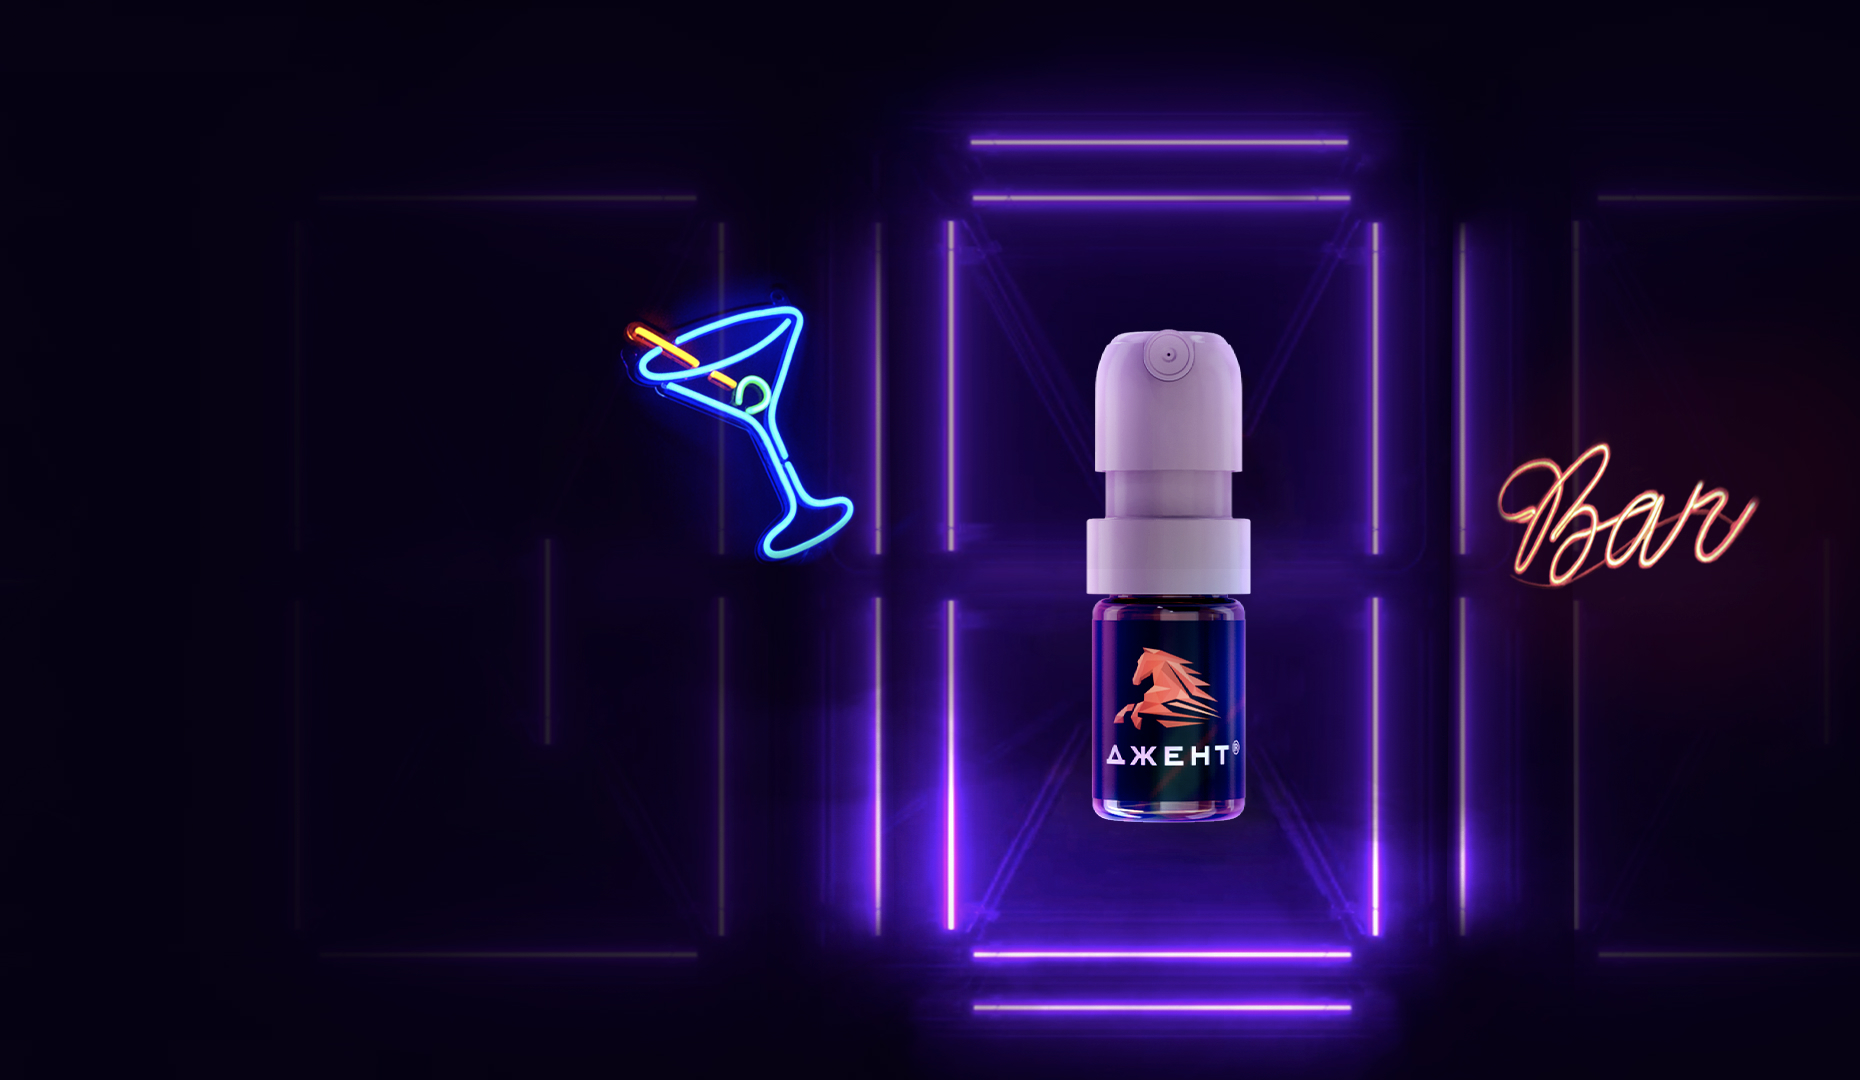
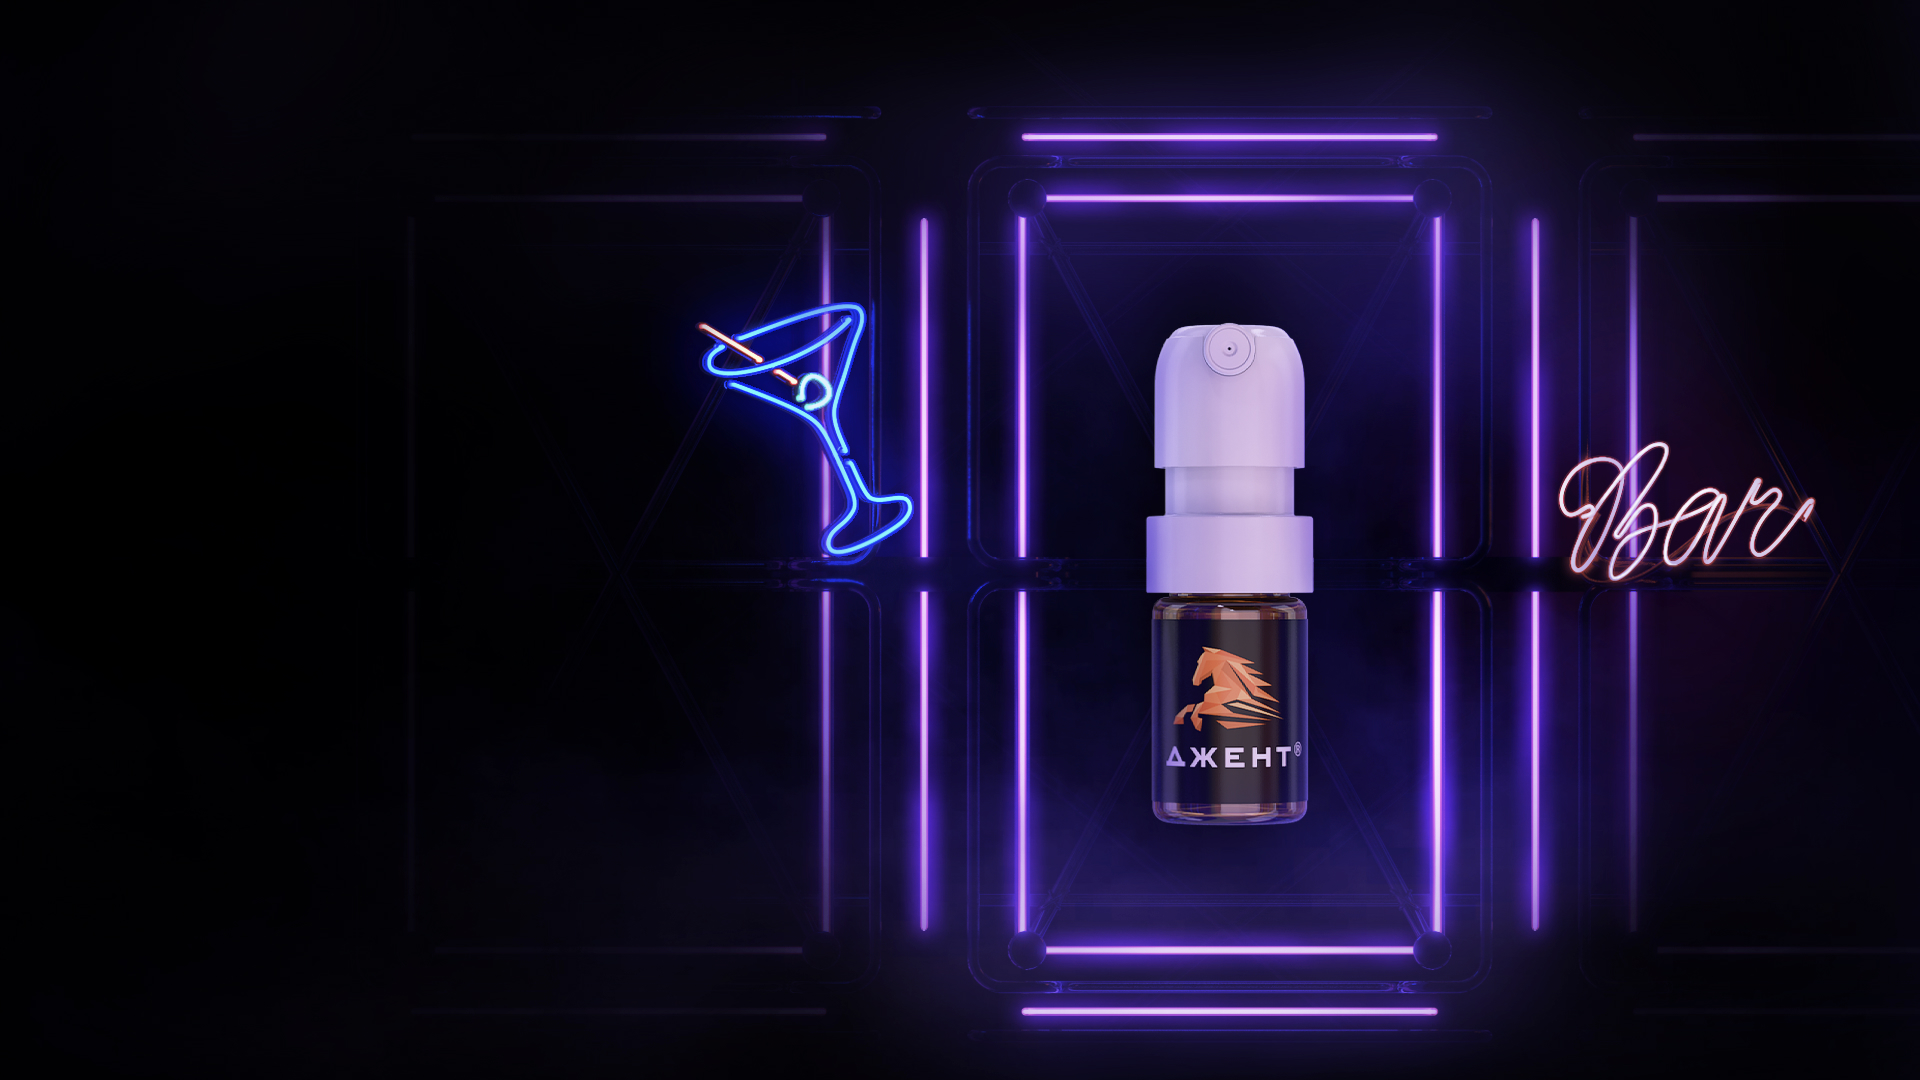
screen static 5

diff --git a/src/components/home/ScreenFive.vue b/src/components/home/ScreenFive.vue
@@ -38,7 +38,8 @@ export default {
   background: #060113;
   background-image: url('../../assets/img/bg-s5.jpg');
   background-repeat: no-repeat;
-  background-position: bottom;
+  background-position: center;
+  background-size: cover;
 
   @media screen and (max-width: 1440px) {
     background-position: center;
